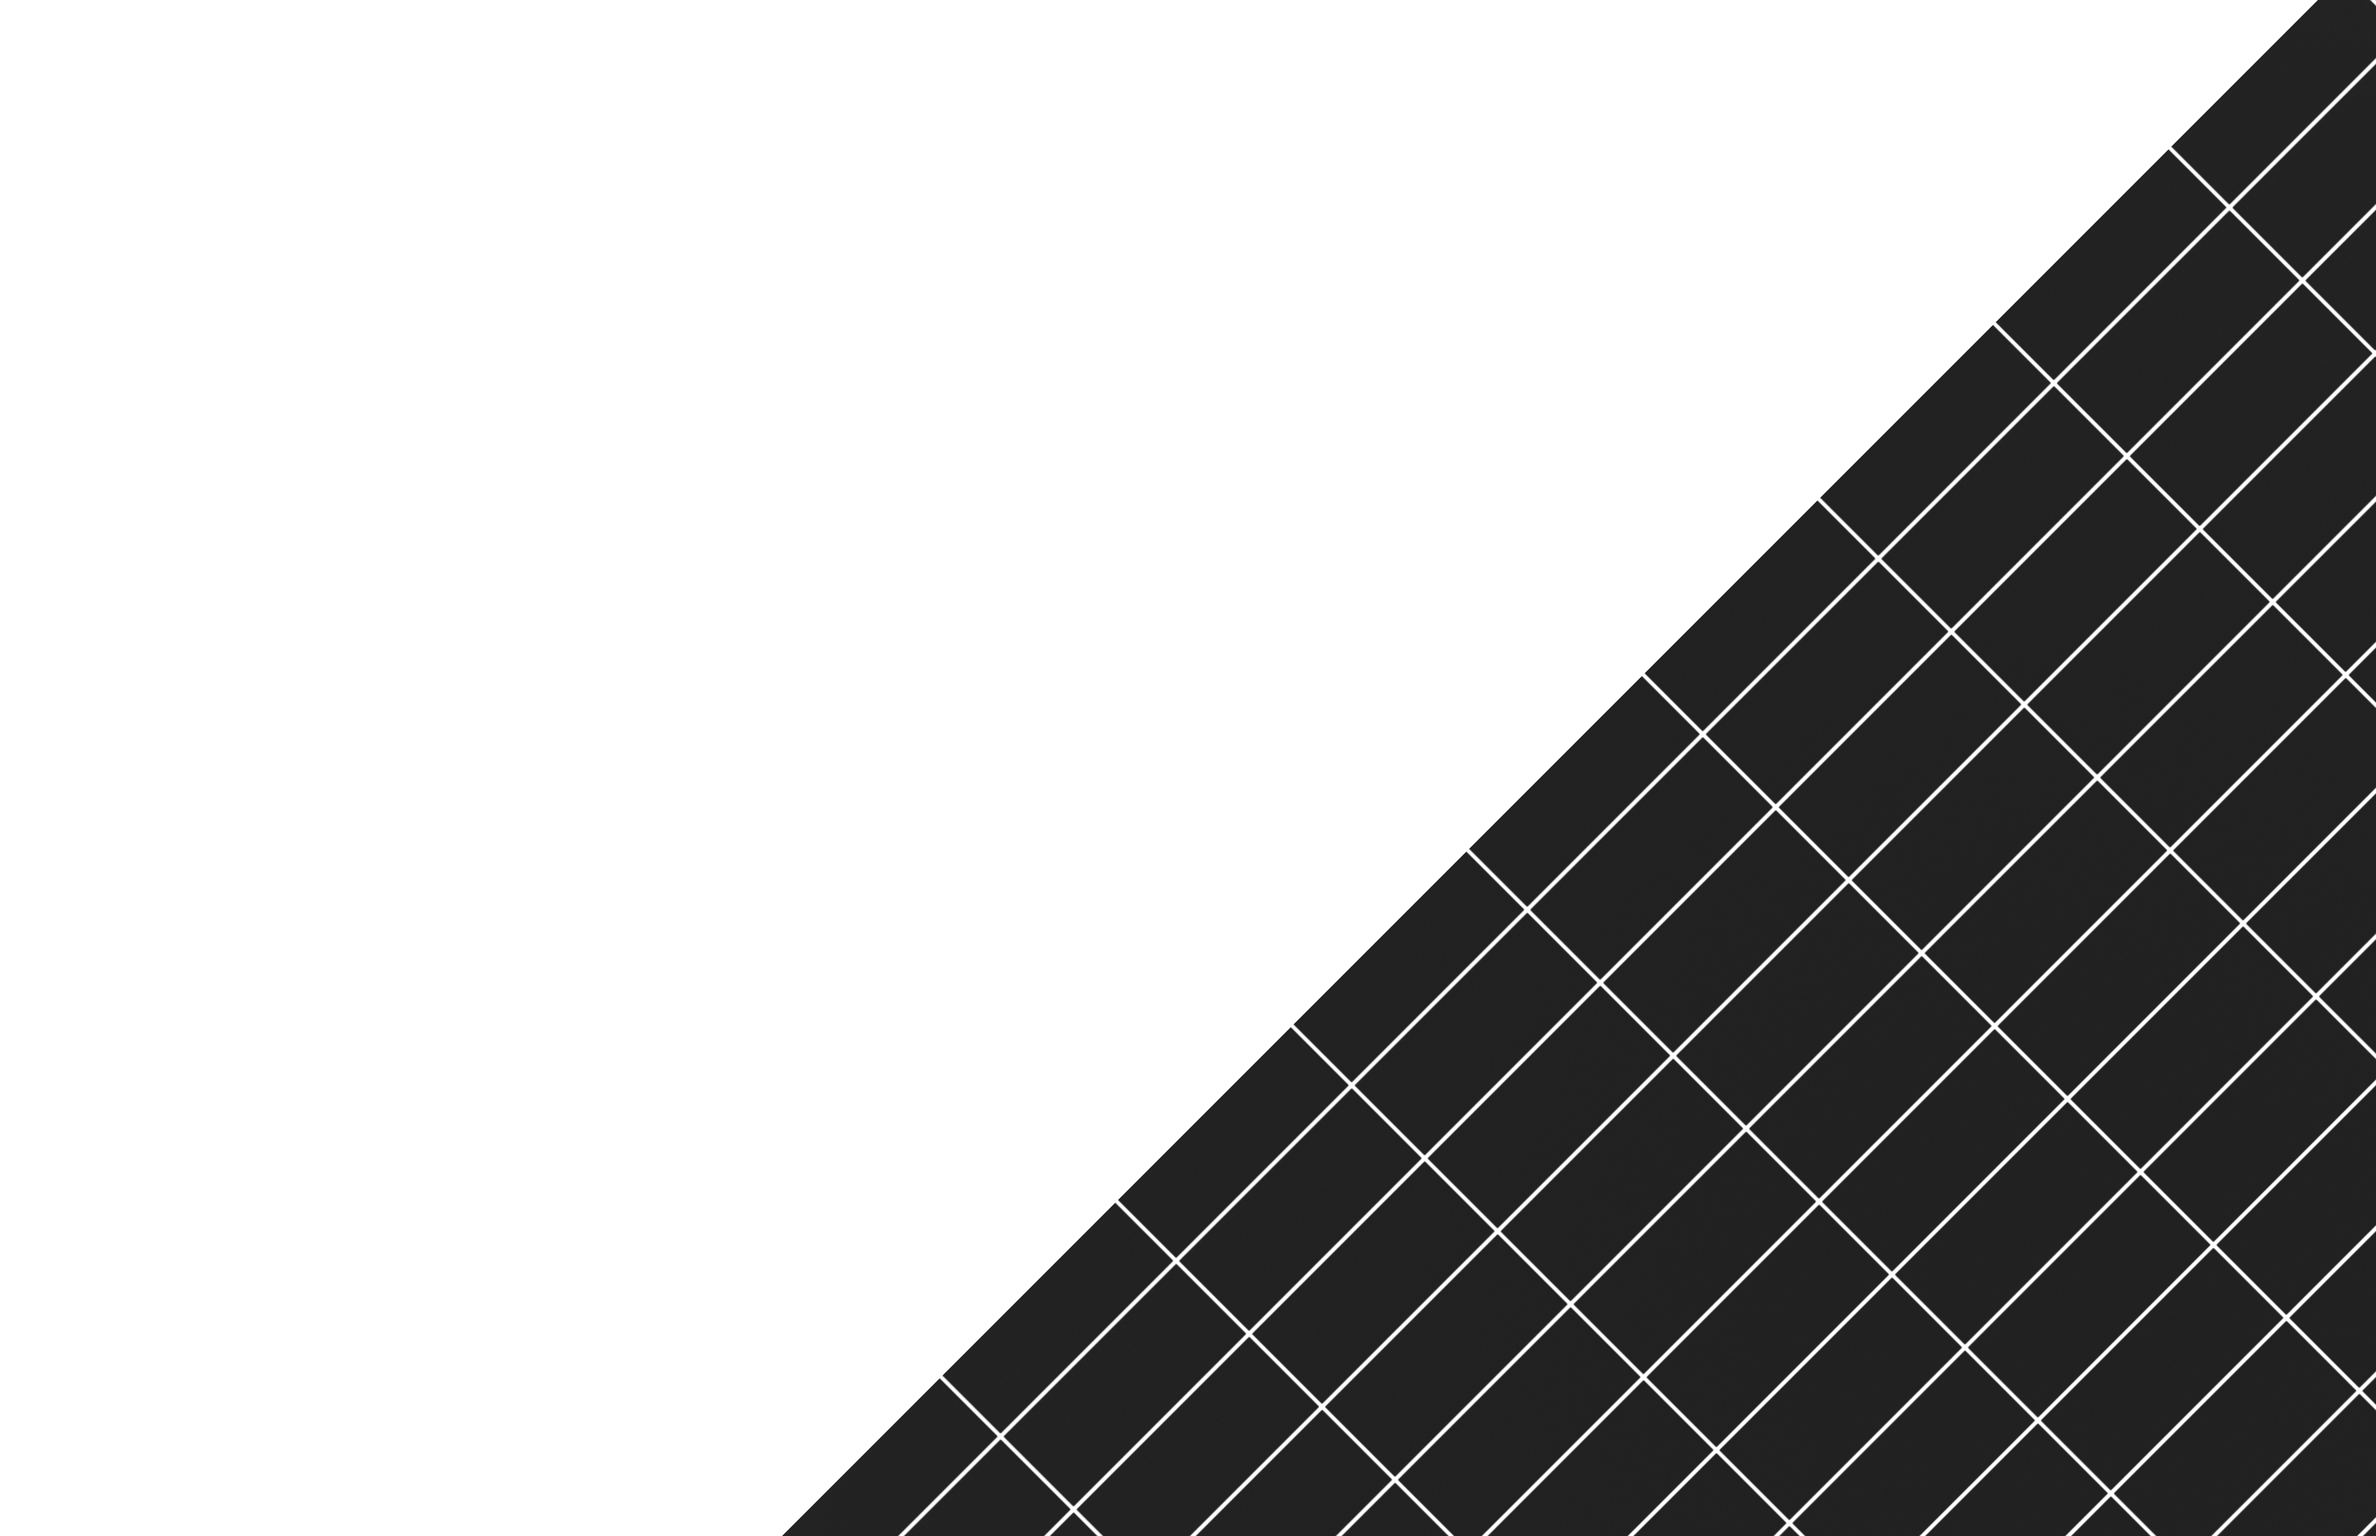
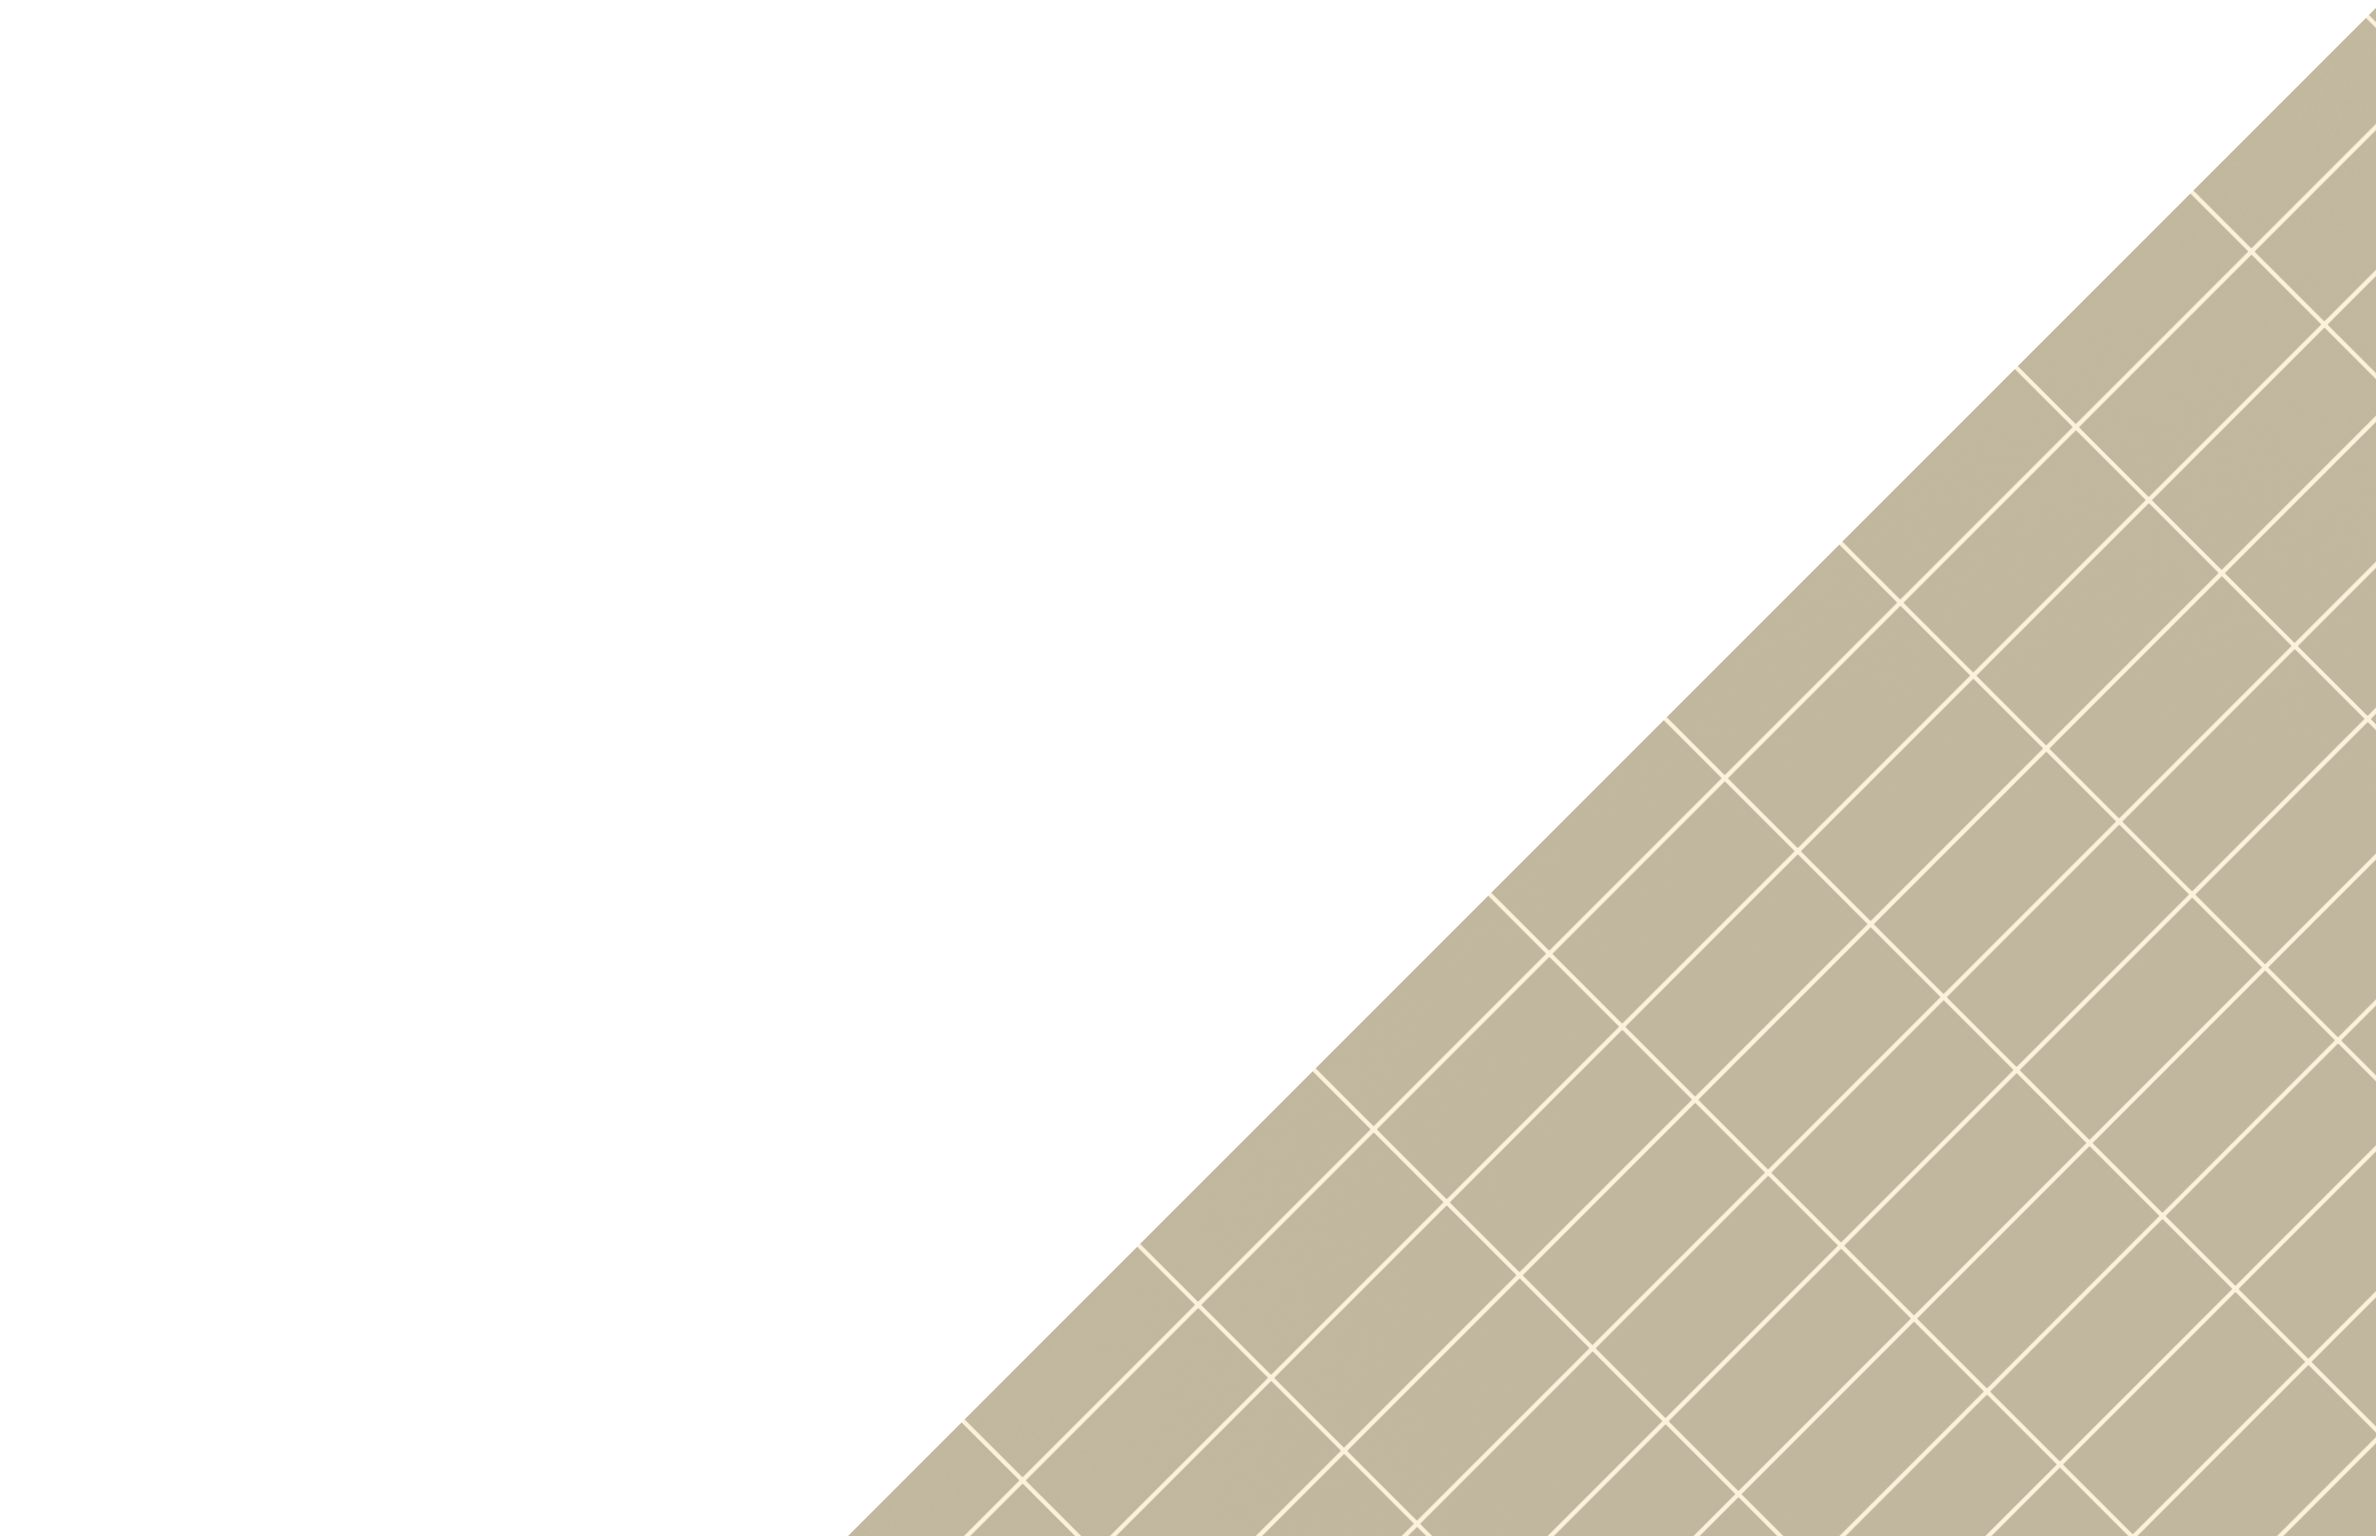
Rehash info

diff --git a/src/sections/info/index.tsx b/src/sections/info/index.tsx
@@ -30,11 +30,10 @@ export default function Info() {
               <ul className={styles.list}>
                 <li>
                   e-waste often contains hazardous materials such as lead, mercury, cadmium, and
-                  flame retardants
+                  flame retardants.
                 </li>
                 <li>
-                  improper management during disposal poses significant environmental and health
-                  risks
+                  improper disposal of e-waste poses significant environmental and health risks.
                 </li>
               </ul>
             </Typography>
@@ -43,29 +42,16 @@ export default function Info() {
             <Typography variant="body">
               <ul className={styles.list}>
                 <li>
-                  developing nations are disproportionately harmed due to illegal dumping and lack
-                  of treatment options. This leads to improper recycling often performed by
-                  children. This exposes them and the environment to high levels of hazardous
-                  chemicals and injury.
+                  large amounts of e-waste are exported from developed nations to developing
+                  countries, who don&apos;t have the tools to properly dispose of e-waste.
                 </li>
-                <li>usually done in developing countries and by children</li>
                 <li>
-                  struggle due to issues like inadequate data, illegal dumping, and lack of
-                  treatment options.
-                  <ul>
-                    <li>
-                      informal recyclers often use basic techniques and tools to extract materials
-                      from e-waste, such as burning or manually dismantling electronics
-                    </li>
-                    <ul>
-                      <li>exposes workers to high levels of hazardous chemicals and injury</li>
-                      <li>usually done in developing countries and by children</li>
-                      <li>
-                        contributes to 67% of the total emissions produced by the product over its
-                        lifetime
-                      </li>
-                    </ul>
-                  </ul>
+                  developing countries don&apos;t have the tools to properly dispose of e-waste and
+                  often resort to burning or manually dismantling electronics.
+                </li>
+                <li>
+                  e-waste disposal in developing countries are often performed by children, who are
+                  exposed to high levels of hazardous chemicals and injury.
                 </li>
               </ul>
             </Typography>

diff --git a/src/sections/contribution/index.tsx b/src/sections/contribution/index.tsx
@@ -1,7 +1,50 @@
 import Typography from '@/components/Typography';
 import styles from './style.module.scss';
 import Image from 'next/image';
+import InfoAccordion from '@/components/InfoAccordion';
 
-export default function contribution() {
-  return;
+export default function Contribution() {
+  return (
+    <div className={styles.container}>
+      <div className={styles.contribution}>
+        <div className={styles.title}>
+          <Typography variant="title">planned obsolescence</Typography>
+        </div>
+        <div className={styles.dropdownContainer}>
+          <InfoAccordion title="planned obsolescence">
+            <Typography variant="body">
+              <ul className={styles.list}>
+                <li>
+                  <strong>planned obsolescence</strong> refers to the practice by manufacturers of
+                  deliberately designing products with a limited lifespan or functionality
+                </li>
+                <li>insert info</li>
+              </ul>
+            </Typography>
+          </InfoAccordion>
+          <InfoAccordion title="perceived obsolescence">
+            <Typography variant="body">
+              <ul className={styles.list}>
+                <li>
+                  <strong>perceived obsolescence</strong> refers to the idea where consumers believe
+                  that a device or application is no longer in style or useful so they replace it
+                  with a newer model even though the old model works perfectly fine
+                </li>
+                <li>insert info</li>
+              </ul>
+            </Typography>
+          </InfoAccordion>
+          <InfoAccordion title="third world shipping">
+            <Typography variant="body">
+              <ul className={styles.list}>
+                <li>insert info</li>
+                <li>insert info</li>
+                <li>insert info</li>
+              </ul>
+            </Typography>
+          </InfoAccordion>
+        </div>
+      </div>
+    </div>
+  );
 }

diff --git a/src/sections/contribution/style.module.scss b/src/sections/contribution/style.module.scss
@@ -1,0 +1,44 @@
+@use 'src/styles/vars.scss' as vars;
+
+.container {
+  display: flex;
+  flex-direction: row;
+  gap: 3rem;
+  justify-content: space-between;
+
+  .info {
+    display: flex;
+    flex-direction: column;
+    gap: 1rem;
+  }
+}
+
+.title {
+  margin-bottom: 20px;
+}
+
+.dropdownContainer {
+  display: flex;
+  flex-direction: column;
+  gap: 1rem;
+}
+
+@media screen and (width <= vars.$breakpoint-md) {
+  .graphic {
+    display: none;
+  }
+  .title {
+    text-align: center;
+  }
+}
+
+.list {
+  display: flex;
+  flex-direction: column;
+  gap: 1rem;
+  padding-left: 1rem;
+
+  strong {
+    color: #59d015;
+  }
+}

diff --git a/src/app/layout.tsx b/src/app/layout.tsx
@@ -1,6 +1,8 @@
 import './globals.css';
+import styles from './page.module.scss';
 import type { Metadata } from 'next';
 import { DM_Sans } from 'next/font/google';
+import Image from 'next/image';
 
 const dmSans = DM_Sans({ subsets: ['latin'] });
 
@@ -12,6 +14,9 @@ export const metadata: Metadata = {
 export default function RootLayout({ children }: { children: React.ReactNode }) {
   return (
     <html lang="en">
+      <div>
+        <Image className={styles.background} src="/background.png" alt="Background Graphic" fill />
+      </div>
       <body className={dmSans.className}>{children}</body>
     </html>
   );

diff --git a/src/sections/info/style.module.scss b/src/sections/info/style.module.scss
@@ -3,6 +3,7 @@
 .container {
   display: flex;
   flex-direction: row;
+  gap: 3rem;
   justify-content: space-between;
 
   .info {
@@ -23,7 +24,6 @@
     display: none;
   }
   .title {
-    display: flex;
     text-align: center;
   }
 }
@@ -32,6 +32,7 @@
   display: flex;
   flex-direction: column;
   gap: 1rem;
+  padding-left: 1rem;
 
   strong {
     color: #59d015;

diff --git a/src/app/page.tsx b/src/app/page.tsx
@@ -1,4 +1,5 @@
 import styles from './page.module.scss';
+import Contribution from '@/sections/contribution';
 import Info from '@/sections/info';
 import Hero from '@/components/Hero';
 
@@ -7,6 +8,7 @@ export default function Home() {
     <main className={styles.main}>
       <Hero />
       <Info />
+      <Contribution />
     </main>
   );
 }

diff --git a/src/components/Typography/style.module.scss b/src/components/Typography/style.module.scss
@@ -19,7 +19,7 @@
   font-size: 21px;
 
   @media screen and (width <= vars.$breakpoint-sm) {
-    font-size: 12px;
+    font-size: 16px;
   }
 }
 
@@ -28,6 +28,6 @@
   font-size: 15px;
 
   @media screen and (width <= vars.$breakpoint-sm) {
-    font-size: 10px;
+    font-size: 15px;
   }
 }

diff --git a/src/app/globals.css b/src/app/globals.css
@@ -2,14 +2,15 @@ html,
 body {
   margin: 0;
   padding: 0;
-  background-color: #faedcd;
 }
 
 html {
   scroll-behavior: smooth !important;
+  background-color: #faedcd;
 }
 
 body {
   max-width: 120rem;
   margin: 0 auto;
+  background-image: url(../../public/background.png);
 }

diff --git a/src/app/page.module.scss b/src/app/page.module.scss
@@ -11,3 +11,11 @@
     gap: 1.5rem;
   }
 }
+
+.background {
+  z-index: -1;
+  opacity: 15%;
+  position: fixed !important;
+  height: 100vh;
+  object-fit: cover;
+}
